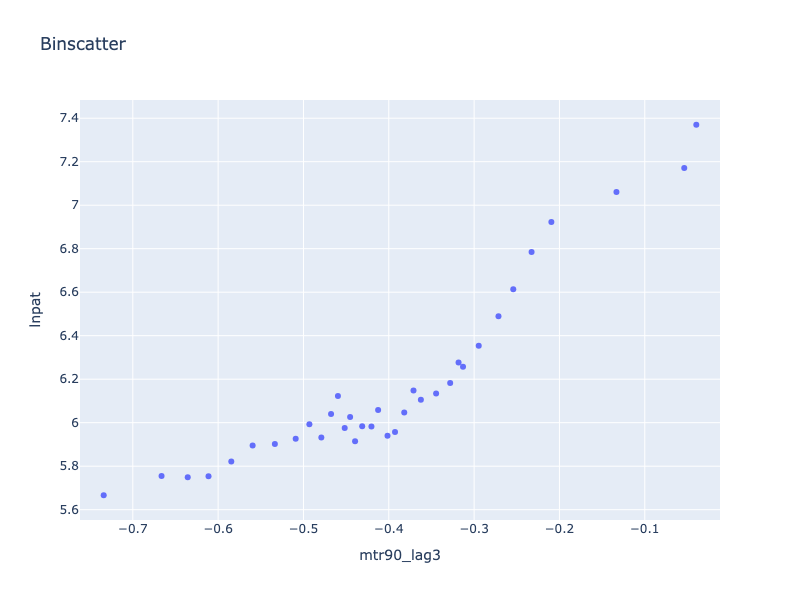
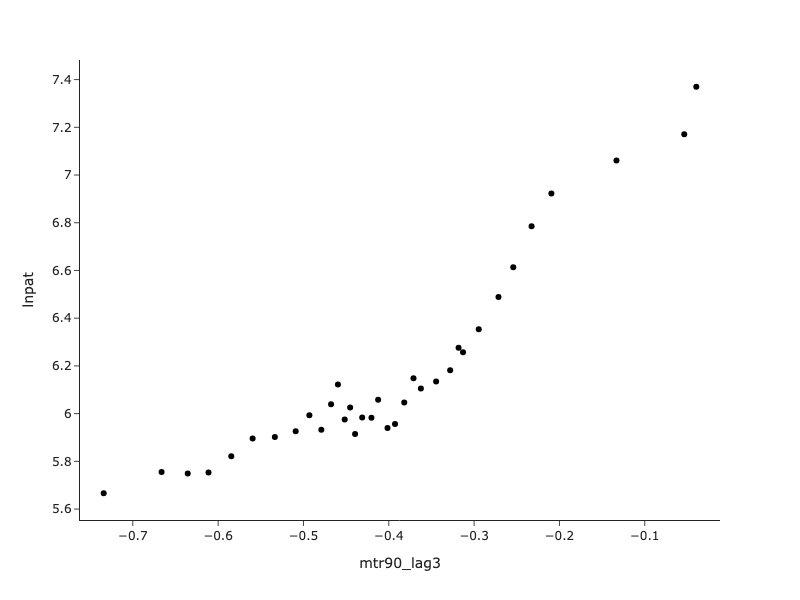
Update style in examples

diff --git a/scripts/replicate_binscatter/make_plots.py b/scripts/replicate_binscatter/make_plots.py
@@ -64,7 +64,11 @@ p_scatter = px.scatter(
     df.select("mtr90_lag3", "lnpat"),
     x="mtr90_lag3",
     y="lnpat",
+    template="simple_white",
+    color_discrete_sequence=["black"],
+    labels={"x": "mtr90_lag3", "y": "lnpat"},
 )
+p_scatter.update_layout(showlegend=False)
 p_scatter.write_image(assets_dir / "scatter.png", width=800, height=600)
 # %%
 p_binscatter = binscatter(
